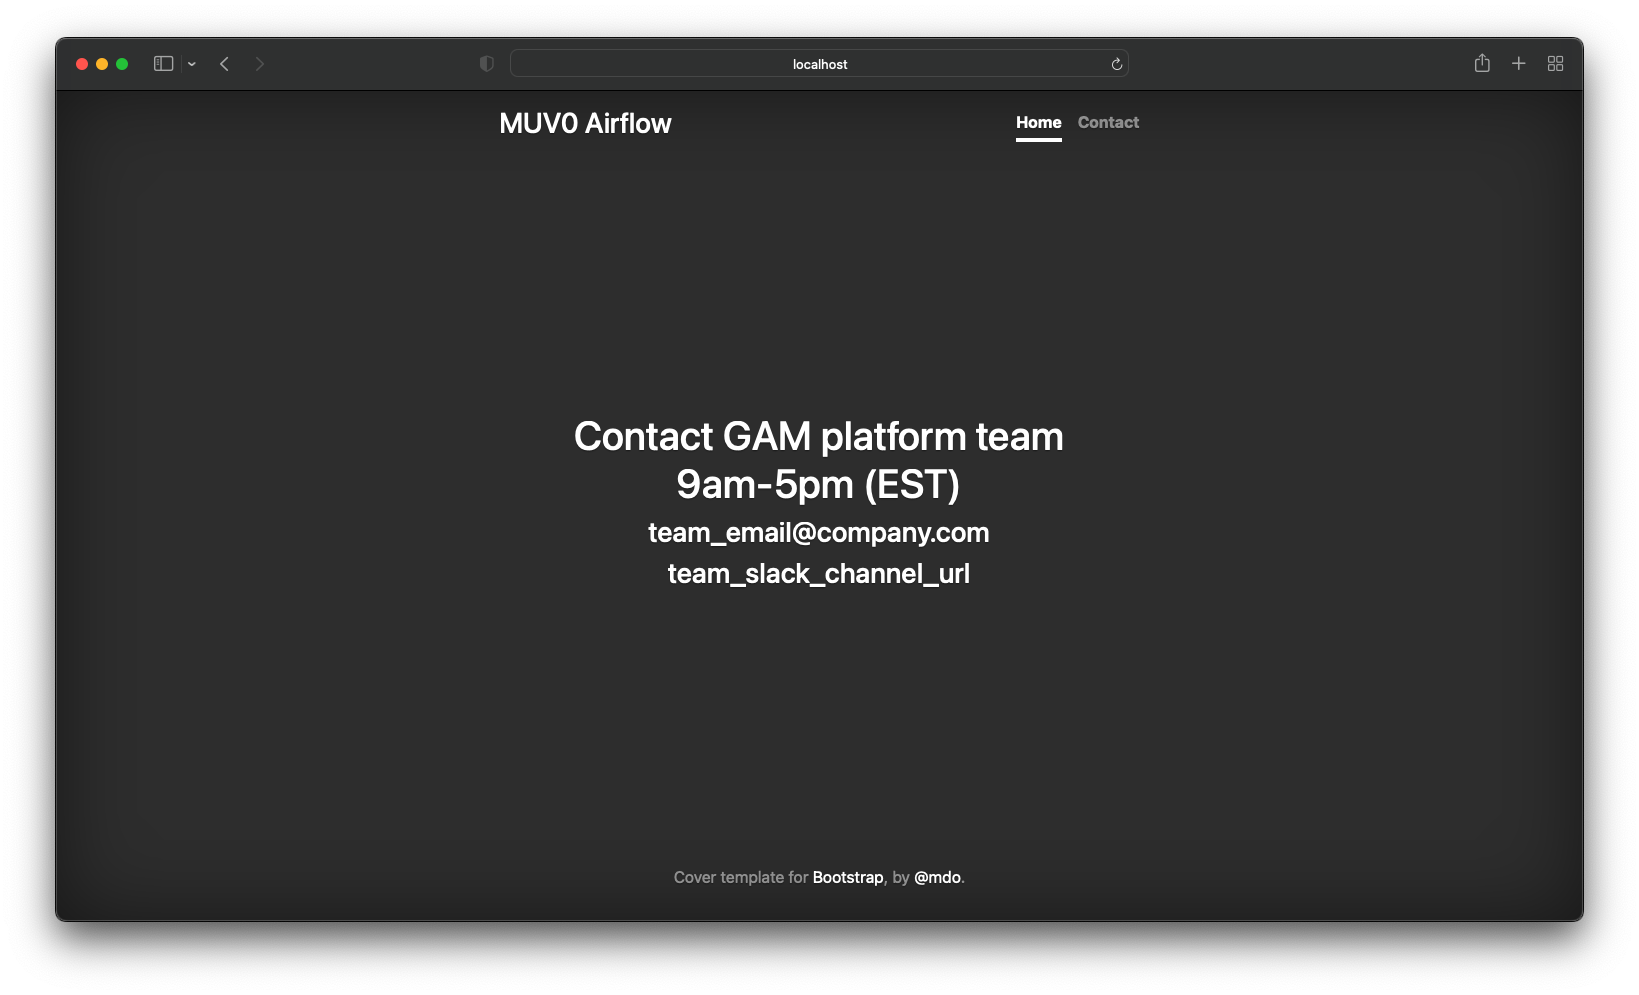
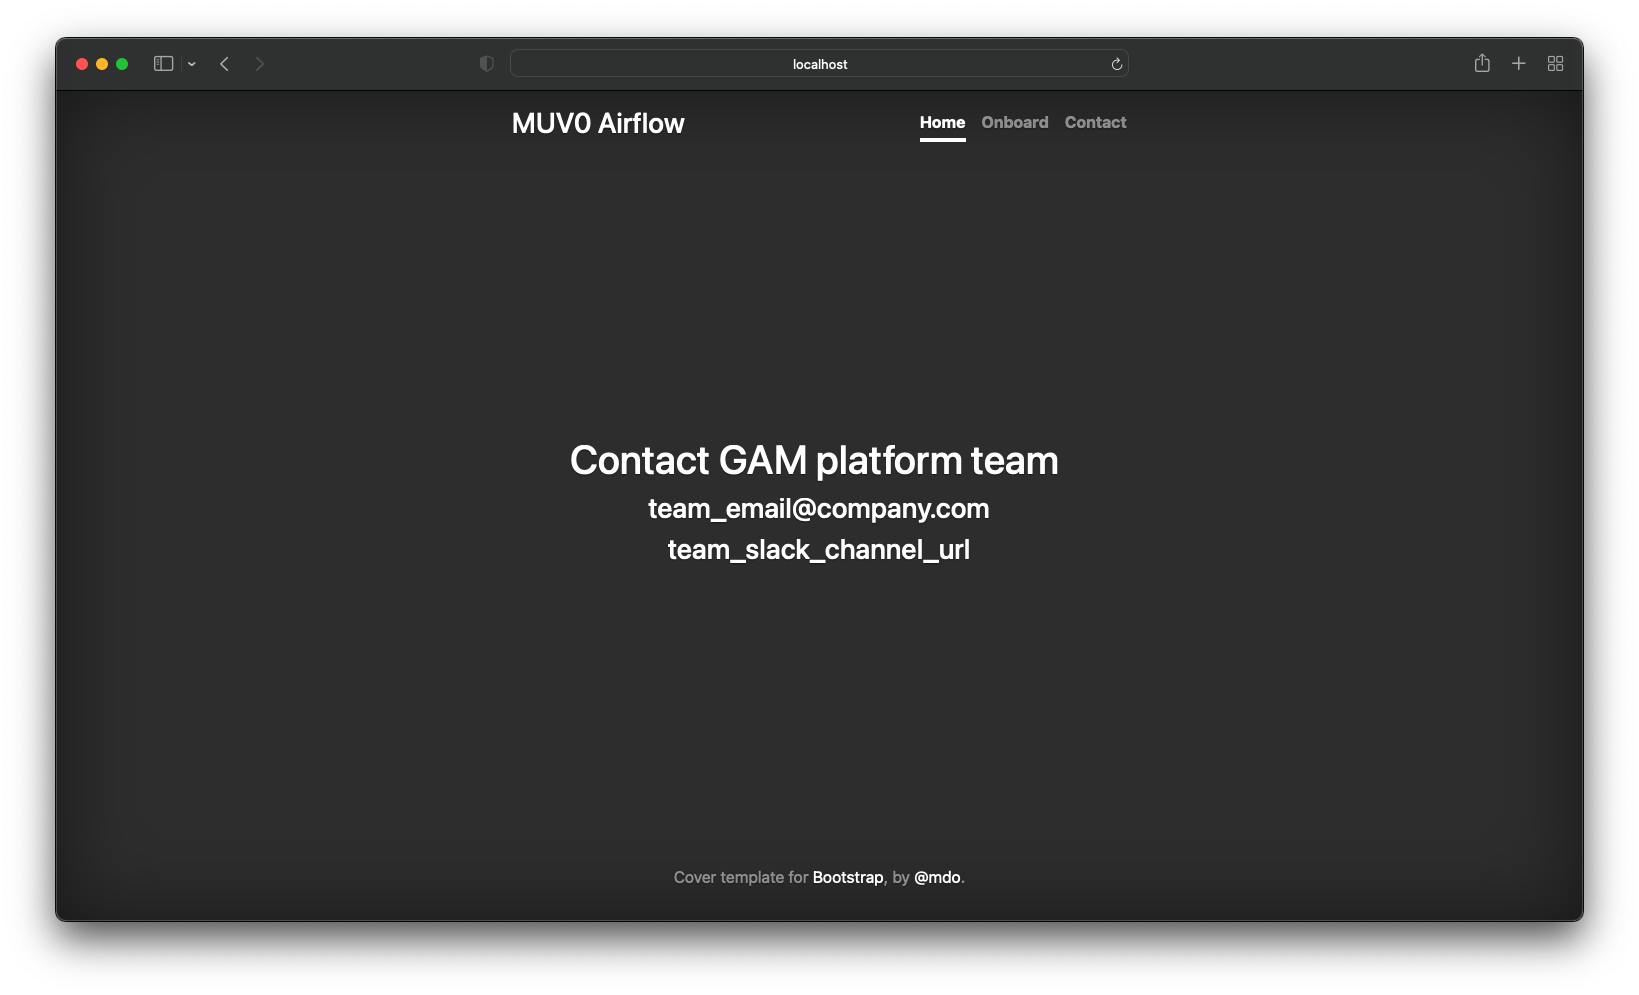
front end ready

Changed region(s): [[0.3423, 0.405, 0.6534, 0.592], [0.5601, 0.0935, 0.6846, 0.1558], [0.3112, 0.0935, 0.4045, 0.1558]]

diff --git a/templates/index.html b/templates/index.html
@@ -24,13 +24,14 @@
           <h3 class="masthead-brand">MUV0 Airflow</h3>
           <nav class="nav nav-masthead justify-content-center">
             <a class="nav-link active" href="/">Home</a>
+            <a class="nav-link" href="form">Onboard</a>
             <a class="nav-link" href="contact">Contact</a>
           </nav>
         </div>
       </header>
 
       <main role="main" class="inner cover">
-        <h1 class="cover-heading"> Welcome to GAM Platform Page.</h1>
+        <h1 class="cover-heading"> Welcome to GAM Platform Page</h1>
         <h2 class="cover-heading"> Onboard your new appcode's config</h2>
         <p class="lead">LDAP and Airflow pool config</p>
         <p class="lead">

diff --git a/templates/form.html b/templates/form.html
@@ -31,9 +31,8 @@
       </header>
 
       <main role="main" class="inner cover">
-        <h1 class="cover-heading"> &nbsp;&nbsp;&nbsp;&nbsp;Contact GAM platform team &nbsp;&nbsp;&nbsp;&nbsp;</h1>
-        <h3 class="cover-heading"> team_email@company.com</h2>
-        <h3 class="cover-heading"> team_slack_channel_url</h2>
+        <h1 class="cover-heading"> Please enter your app code :)&nbsp;&nbsp;&nbsp;&nbsp;&nbsp;&nbsp;&nbsp;&nbsp;&nbsp; </h1>
+        <input class="form-control form-control-lg" type="text" placeholder="Enter your app code (i.e. ABC0)" aria-label=".form-control-lg example">
       </main>
 
       <footer class="mastfoot mt-auto">

diff --git a/app.py b/app.py
@@ -11,6 +11,10 @@ def home():
 def contact():
     return render_template("contact.html")
 
+@app.route('/form', methods=['POST', 'GET'])
+def form():
+    return render_template("form.html")
+
 if __name__ == "__main__":
     port = int(os.environ.get("PORT", 3000))
     app.run(debug=True, host='0.0.0.0', port=port)

diff --git a/README.md b/README.md
@@ -6,8 +6,12 @@ Flask app to deploy ldap.yaml and airflow_pool.yaml changes
 
 ![Screenshot](images/landing_page.png)
 
-# Web form page for user input
-(WIP)
+# Onboard page
+
+(Backend logic is not ready yet.. WIP)
+
+![Screenshot](images/onboard_page.png)
+
 # Contact page
 ![Screenshot](images/contact_page.png)
 
